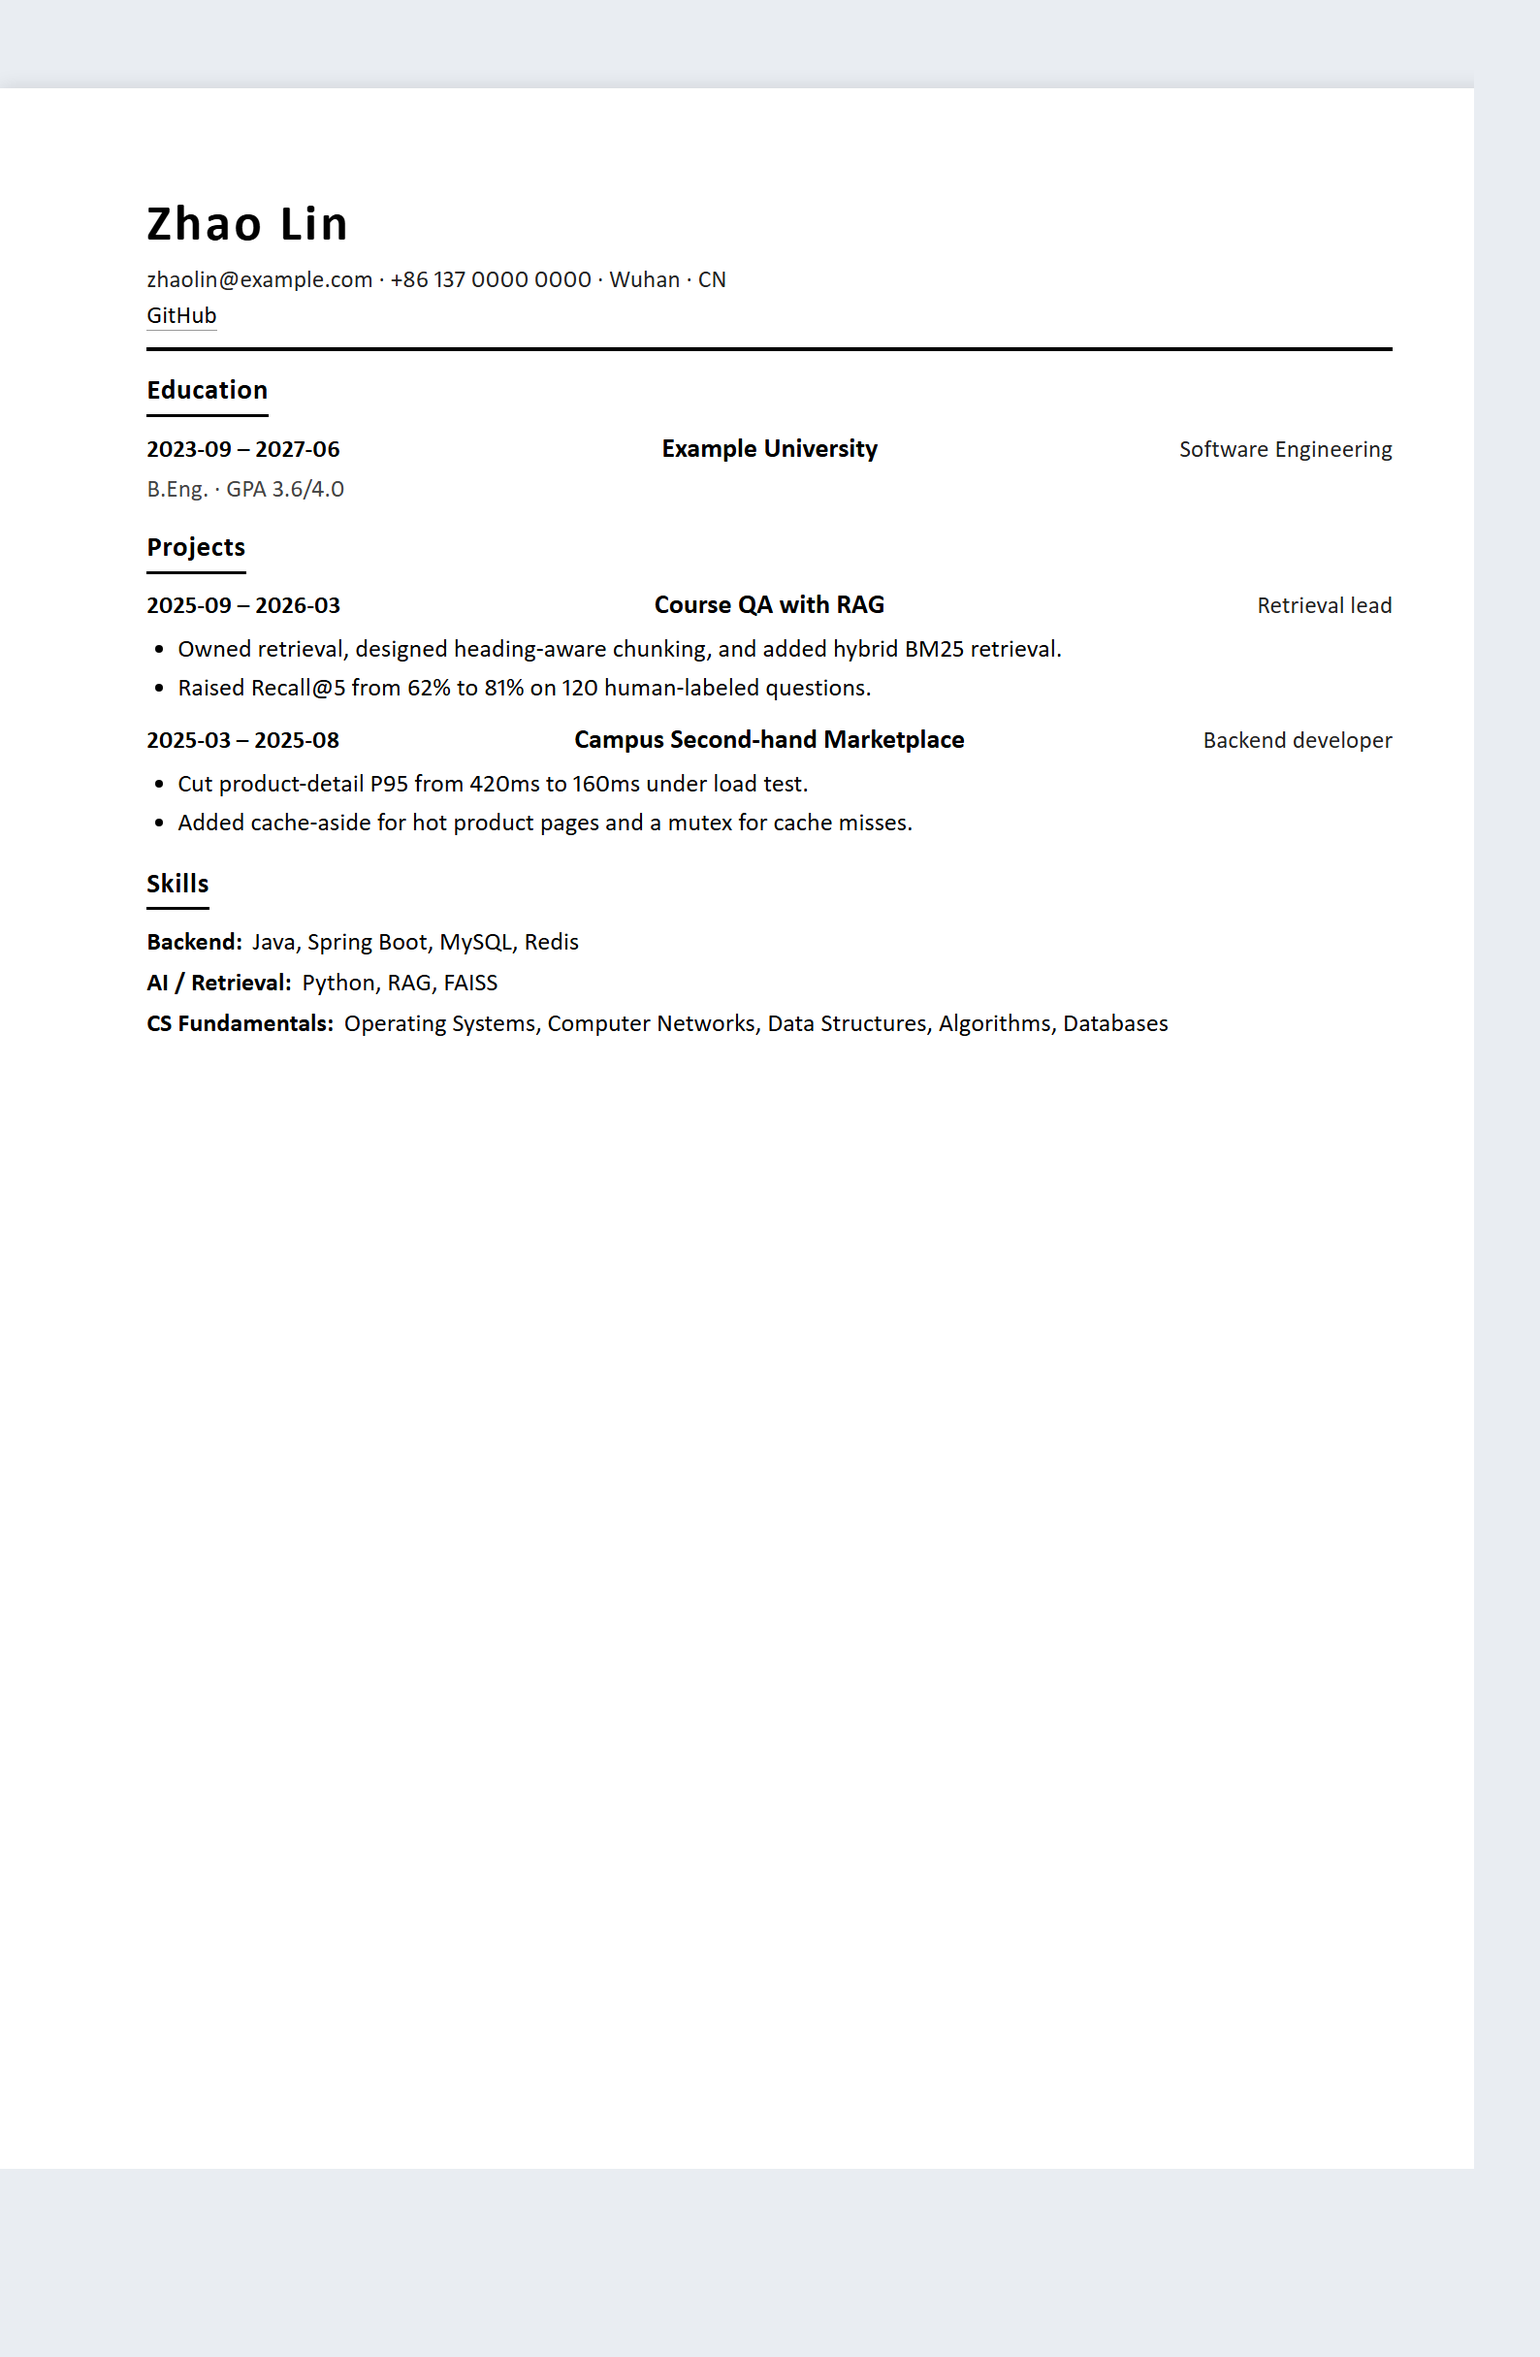
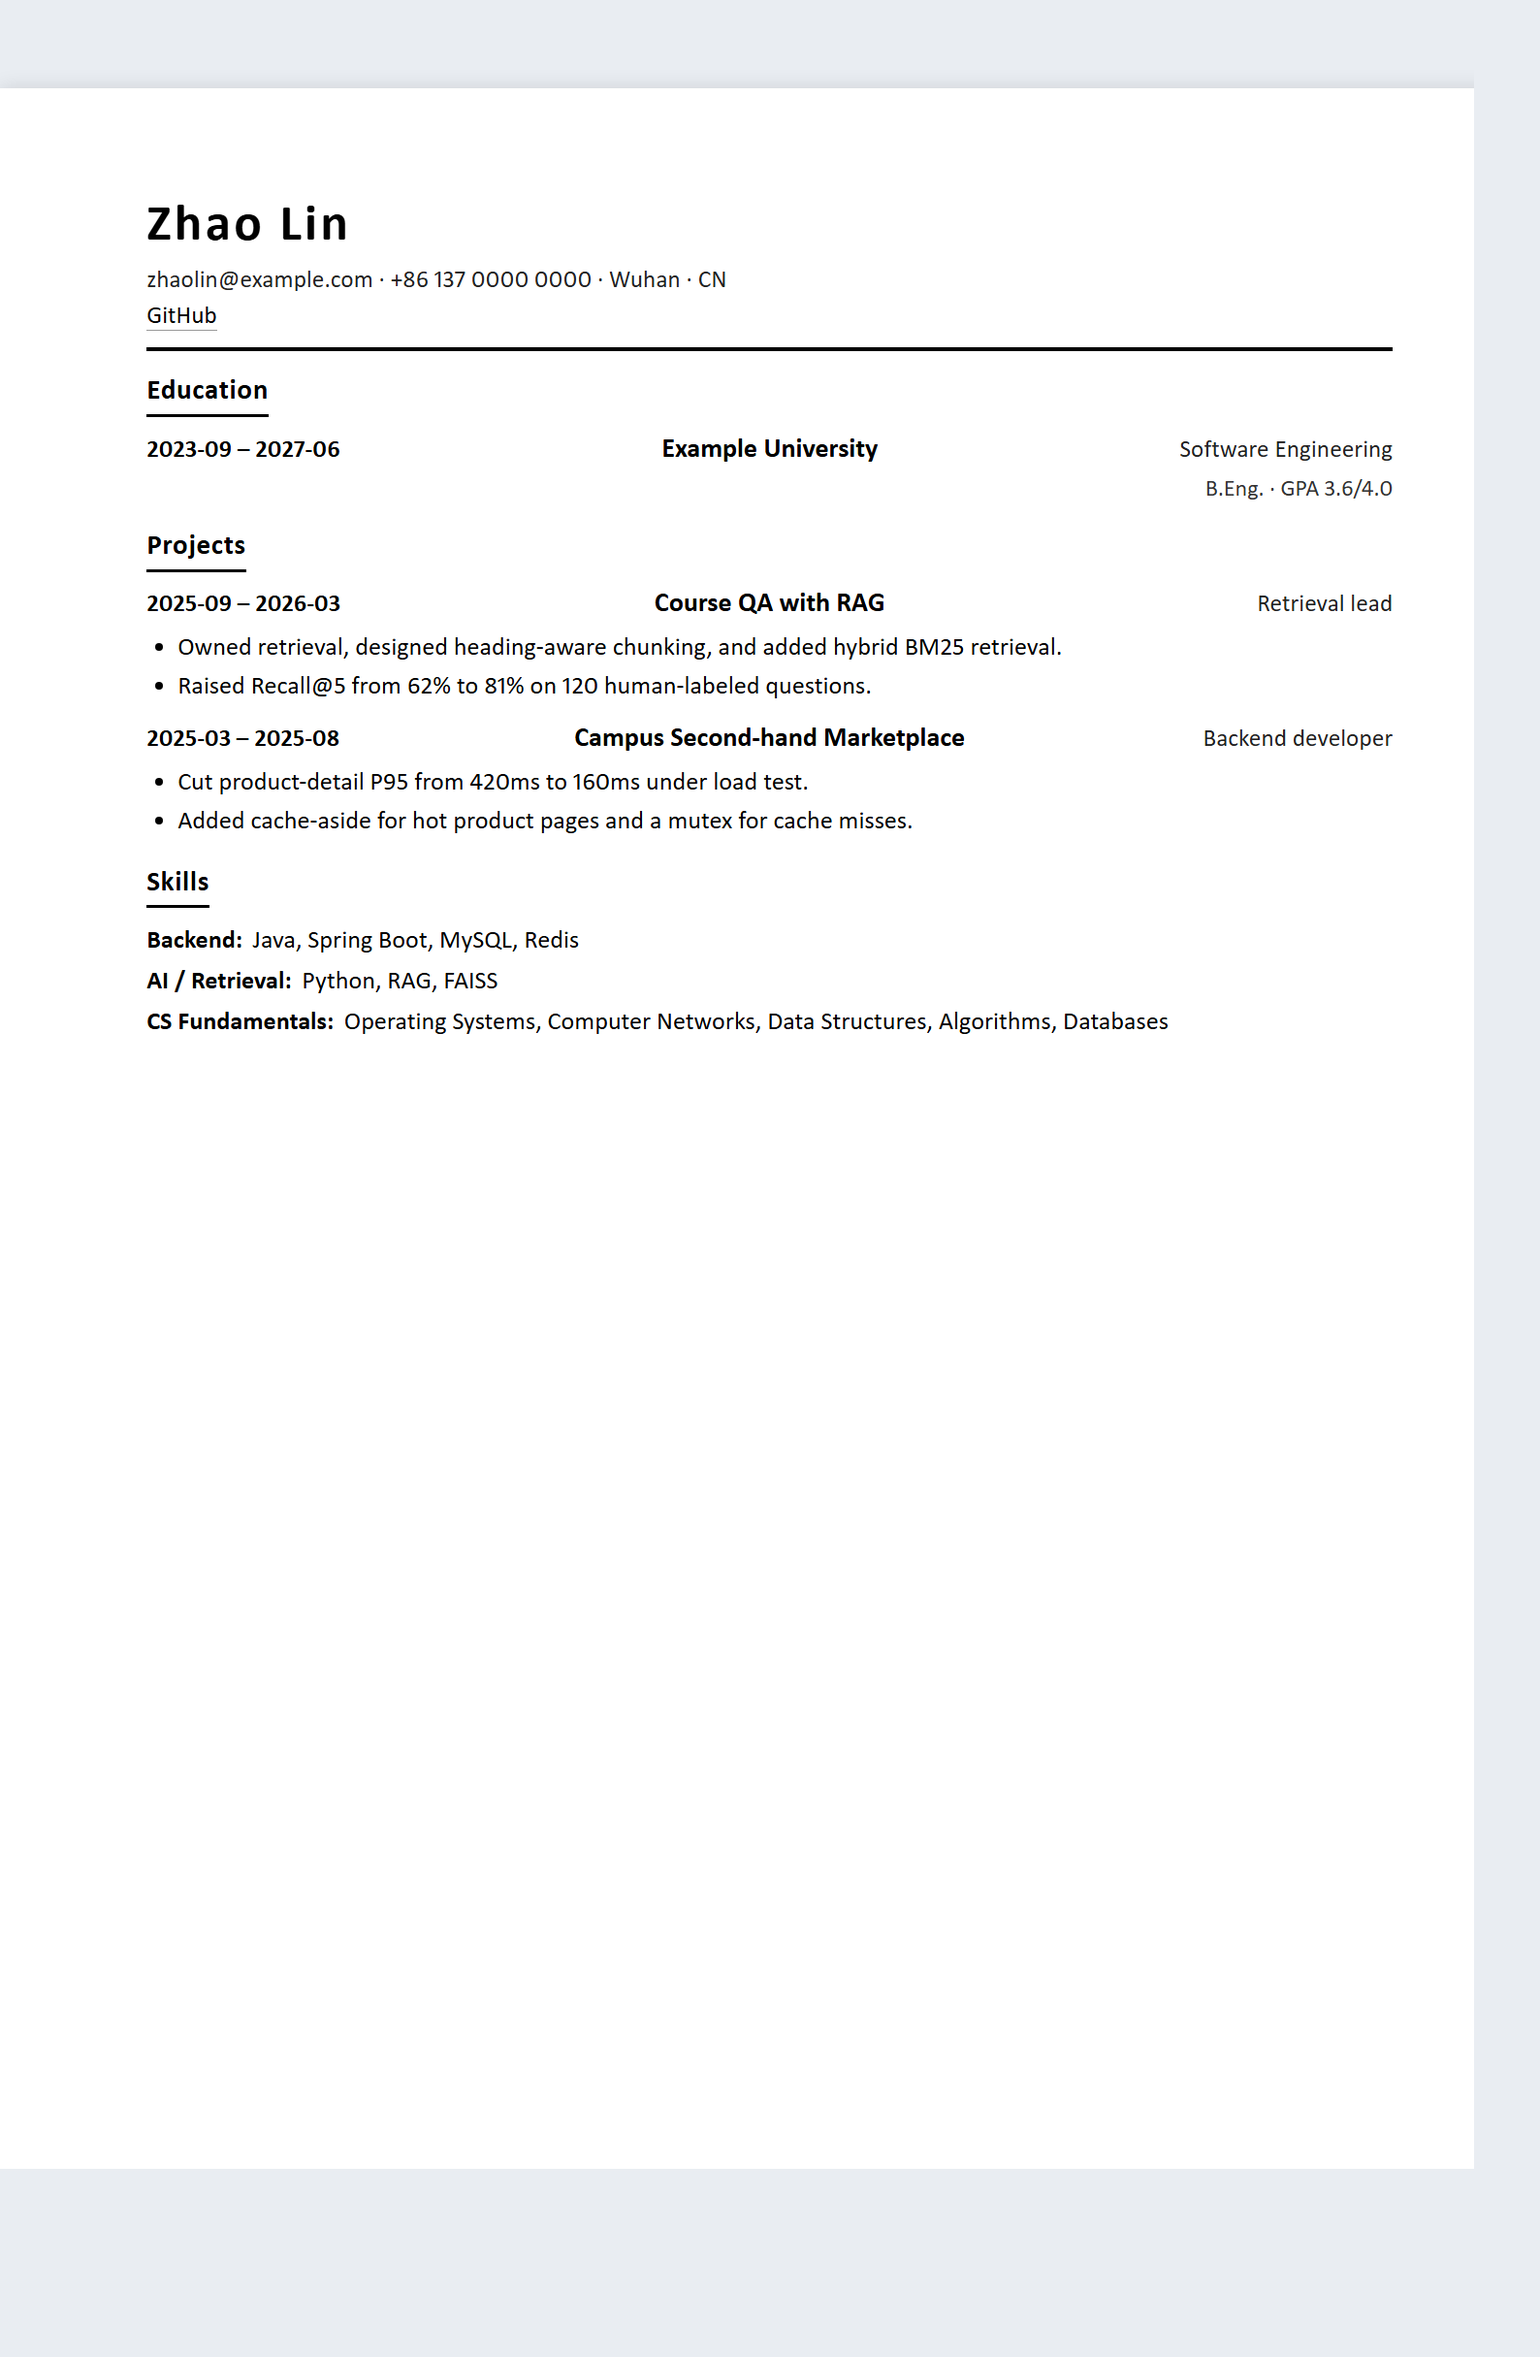
fix(skill): strengthen packaging and require concrete dates
Treat packaging real experience as the core product: every kept item
needs context, ownership, action, and result, and no bare label may
render on its own line. In compact, the education degree now sits as a
small note directly under the major instead of a standalone line.

Lint now flags 至今/Present end dates and the skill asks for a concrete
end month before delivery.

diff --git a/templates/cn/compact/preview.html b/templates/cn/compact/preview.html
@@ -190,6 +190,14 @@ html[lang="en"] .skill-label::after { content: ": "; }
 
 .entry-note { font-size: 9.5pt; color: #444; margin-top: 1pt; }
 
+.section[data-section="education"] .entry-note {
+  grid-column: 3;
+  grid-row: 2;
+  text-align: right;
+  font-size: 9pt;
+  color: #333;
+}
+
 </style>
 <style>
 .draft-banner{position:fixed;top:0;left:0;right:0;background:#b00020;color:#fff;text-align:center;

diff --git a/templates/en/compact/preview.html b/templates/en/compact/preview.html
@@ -190,6 +190,14 @@ html[lang="en"] .skill-label::after { content: ": "; }
 
 .entry-note { font-size: 9.5pt; color: #444; margin-top: 1pt; }
 
+.section[data-section="education"] .entry-note {
+  grid-column: 3;
+  grid-row: 2;
+  text-align: right;
+  font-size: 9pt;
+  color: #333;
+}
+
 </style>
 <style>
 .draft-banner{position:fixed;top:0;left:0;right:0;background:#b00020;color:#fff;text-align:center;

diff --git a/templates/cn/compact/styles.css b/templates/cn/compact/styles.css
@@ -181,3 +181,11 @@ html[lang="en"] .skill-label::after { content: ": "; }
 }
 
 .entry-note { font-size: 9.5pt; color: #444; margin-top: 1pt; }
+
+.section[data-section="education"] .entry-note {
+  grid-column: 3;
+  grid-row: 2;
+  text-align: right;
+  font-size: 9pt;
+  color: #333;
+}

diff --git a/templates/en/compact/styles.css b/templates/en/compact/styles.css
@@ -181,3 +181,11 @@ html[lang="en"] .skill-label::after { content: ": "; }
 }
 
 .entry-note { font-size: 9.5pt; color: #444; margin-top: 1pt; }
+
+.section[data-section="education"] .entry-note {
+  grid-column: 3;
+  grid-row: 2;
+  text-align: right;
+  font-size: 9pt;
+  color: #333;
+}

diff --git a/src/resume_pro/lint.py b/src/resume_pro/lint.py
@@ -250,6 +250,17 @@ def lint(
         if isinstance(start, str) and start[:4].isdigit() and int(start[:4]) > datetime.now().year + 1:
             add("lint.date_future", "warn", f"experience[{index}].start", "The start date is in the future.", "Confirm the date.")
 
+    for section in ("education", "experience", "projects"):
+        for index, item in enumerate(vault.get(section) or []):
+            if item.get("end") == "present":
+                add(
+                    "lint.date_open",
+                    "warn",
+                    f"{section}[{index}].end",
+                    "This period ends with 至今/Present.",
+                    "Ask for a concrete end month before delivery.",
+                )
+
     for link in (vault.get("identity") or {}).get("links") or []:
         url = str(link.get("url") or "")
         if PLACEHOLDER_RE.search(url) or url in {"#", ""}:

diff --git a/tests/test_lint.py b/tests/test_lint.py
@@ -107,6 +107,13 @@ def test_date_order_is_an_error(student_vault):
     assert any(issue.code == "lint.date_order" for issue in report.errors)
 
 
+def test_present_end_is_flagged_for_a_concrete_month(student_vault):
+    vault = copy.deepcopy(student_vault)
+    vault["projects"][0]["end"] = "present"
+    report = lint(vault, market="cn_internet", persona="student_with_internship", application=_app())
+    assert any(issue.code == "lint.date_open" for issue in report.warnings)
+
+
 def test_skim_fails_without_signals(student_vault):
     vault = copy.deepcopy(student_vault)
     vault["skills"] = []

diff --git a/tests/test_release.py b/tests/test_release.py
@@ -168,6 +168,8 @@ def test_skill_requires_content_sufficiency_and_depth_mining():
         "depth mining",
         "never invents",
         "ask whether to package the existing work",
+        "Never let a bare label render alone",
+        "concrete end month",
     ):
         assert requirement in section, f"Missing content-sufficiency rule: {requirement}"
 

diff --git a/SKILL.md b/SKILL.md
@@ -209,11 +209,14 @@ resume templates
 
 ## Content sufficiency
 
+- Packaging real experience is the core product. HR must see substance: context, ownership, action, and result in every kept item. Strengthen real work with decisive verbs and scale; never pad with vague adjectives.
 - Every kept role or project must answer four things: background or problem, the user's role, the user's action, and the result. Technical stack alone is not a result.
 - When a bullet only names tools or duties, ask for the outcome behind them: a number, scope, artifact, or user-visible change.
 - If the user gives technology without background or results, ask one question: can you supply it, or should I rephrase only what you already gave? Add nothing on my own.
 - Follow the selected framework while collecting: STAR asks situation, task, action, result; XYZ asks the accomplished X measured by Y by doing Z; CAR asks challenge, action, result. Ask only for the slots that are missing.
 - If no outcome exists, ask for a smaller true detail instead of padding the resume.
+- Never let a bare label render alone (for example, a degree with no other detail). Keep supplements attached to their element.
+- Final dates are concrete `YYYY.MM`. Flag `至今` / `present` and ask for a concrete end month before delivery.
 - When the user says there is no number, ask whether to package the existing work with a stronger narrative; "keep it as is" and "skip" are not equivalent choices. Packaging may reorder and sharpen real work, never add a metric.
 - For a student or intern profile with at most one real project, run **depth mining** silently: ask targeted questions about real tasks, decisions, scope, artifacts, and feedback, then present those real contributions more strongly. This packages real experience; it never invents a project, employer, metric, or date, and it is not announced as a feature — it reads as normal fact questions.
 - A thin profile stays in build mode when depth mining cannot surface a second proof point.

diff --git a/docs/evaluation.md b/docs/evaluation.md
@@ -5,7 +5,7 @@ This is an internal evaluation on fictional fixtures. It is not a user study and
 ## 1. Automated surface
 
 - Templates are organized under `templates/cn/` and `templates/en/`; the folders identify resume language (`zh`/`en`). Each of the six layouts exists in both languages (twelve variants).
-- 271 tests cover vault validation, evidence rules, intake branching, continuous-interaction instructions and CLI state transitions, sufficiency, ingestion, template audit, template learning, selection, writing consent, lint, JD match, recommendation, HTML rendering, six A4 layouts in both languages, language-aware template resolution, education-first ordering, optional portrait slots, mass/targeted role classification, transcreation/parity that preserves the source layout, QA, version diffs, standard template typography, README preview assets, workspace publishing, and private-safe skill packaging/bootstrap.
+- 272 tests cover vault validation, evidence rules, intake branching, continuous-interaction instructions and CLI state transitions, sufficiency, ingestion, template audit, template learning, selection, writing consent, lint, JD match, recommendation, HTML rendering, six A4 layouts in both languages, language-aware template resolution, education-first ordering, optional portrait slots, mass/targeted role classification, transcreation/parity that preserves the source layout, QA, version diffs, standard template typography, README preview assets, workspace publishing, and private-safe skill packaging/bootstrap.
 - Run: `python -m pytest`.
 - Browser QA: headless Edge/Chrome prints the rendered HTML to a temporary PDF, then checks actual pages, extracted text, selected bullets, headings, font floor, and section order.
 - Reproducibility: the same vault + application + template produce byte-identical HTML. Template manifests are signed with SHA-256 over HTML + CSS.

diff --git a/CHANGELOG.md b/CHANGELOG.md
@@ -34,6 +34,7 @@ All notable changes to this project are documented here. The format follows Keep
 - Place workspace outputs under the skill root's `workspace/`; one subfolder per application or review.
 - After a diagnosis, ask whether to start fixing; if yes, offer one multi-select P0/P1/P2 choice, ask the writing framework, then work through the selected priorities one question at a time and re-run build/QA. The rest of the flow mirrors Create from zero.
 - Enforce content sufficiency: every kept role/project answers background, role, action, and result; ask for outcomes when only tools are given; use the selected framework's question ladder; and run silent depth mining for thin student/intern profiles, packaging only real contributions without inventing facts. When no number exists, offer to package the existing work with a stronger narrative instead of treating "keep" and "skip" as the same choice.
+- Flag `至今` / `present` end dates during lint and ask for a concrete end month before delivery; keep education supplements attached to their element instead of rendering a bare label on its own line.
 
 ## [0.1.0] — 2026-11-05
 
